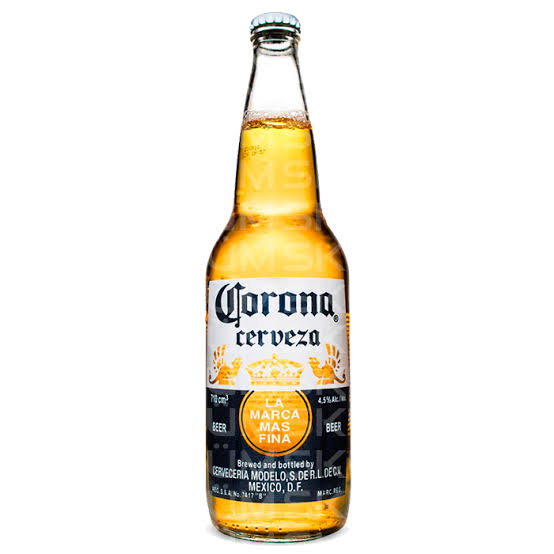
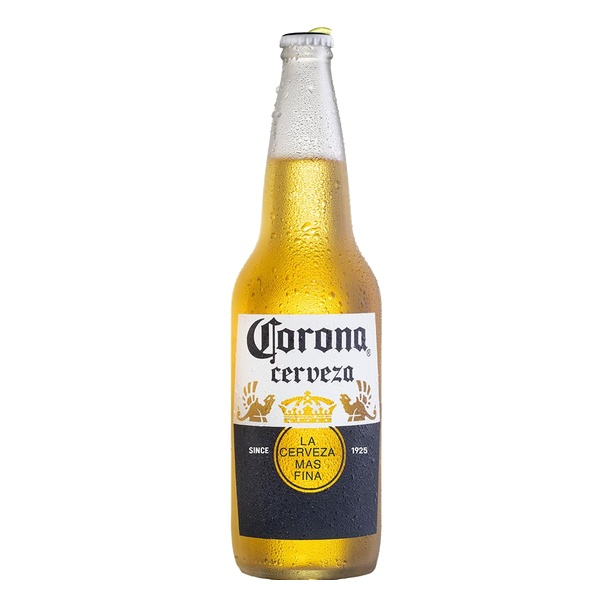
Mejorar imagenes de Corona y Heineken en alta definicion sin marcas de agua, agregar foto hero combinada en slide 4 y nuevos productos Elfbar

Changed region(s): [[0.3682, 0.0, 0.6444, 0.9819]]

diff --git a/templates/tienda.html b/templates/tienda.html
@@ -243,7 +243,7 @@
                                 </div>
                             </div>
                             <div class="slide-image-box">
-                                <img src="/uploads/combos/combo_corona_x6.png" alt="Cervezas Corona x6" class="slide-img">
+                                <img src="/uploads/combos/combo_cervezas_pack.png" alt="Packs Cervezas Corona y Heineken 710ml" class="slide-img">
                             </div>
                         </div>
                     </div>
